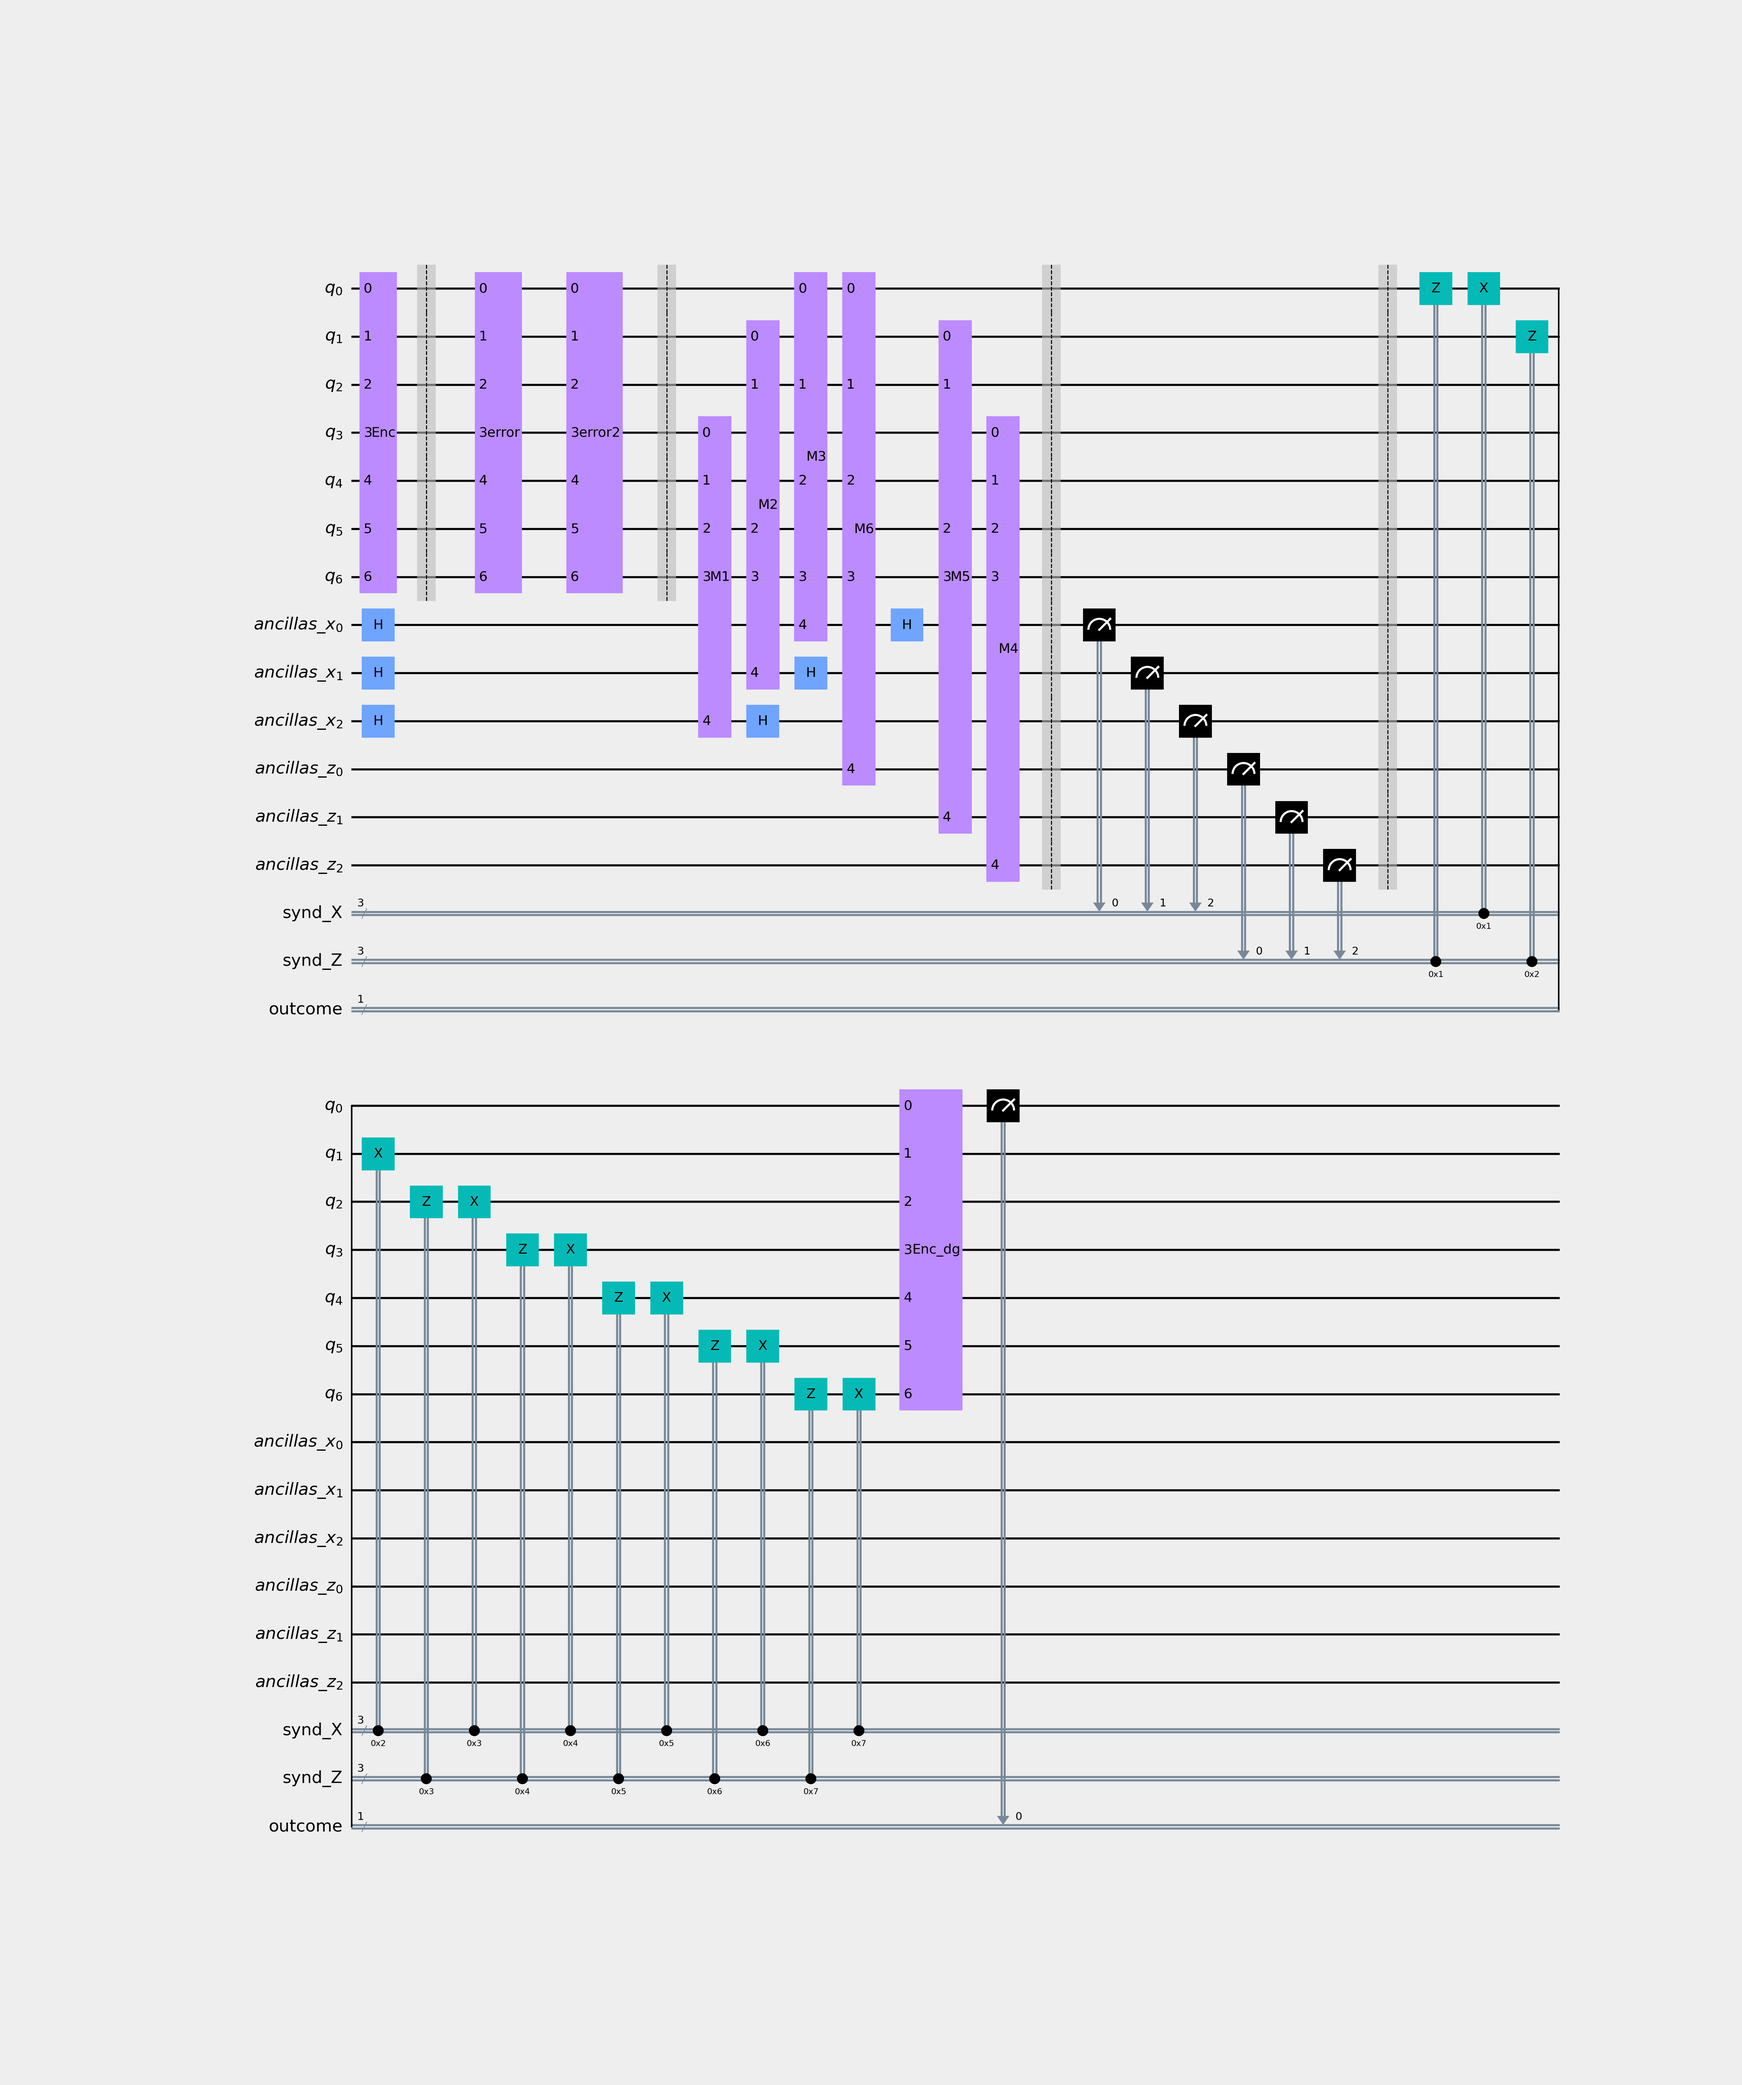
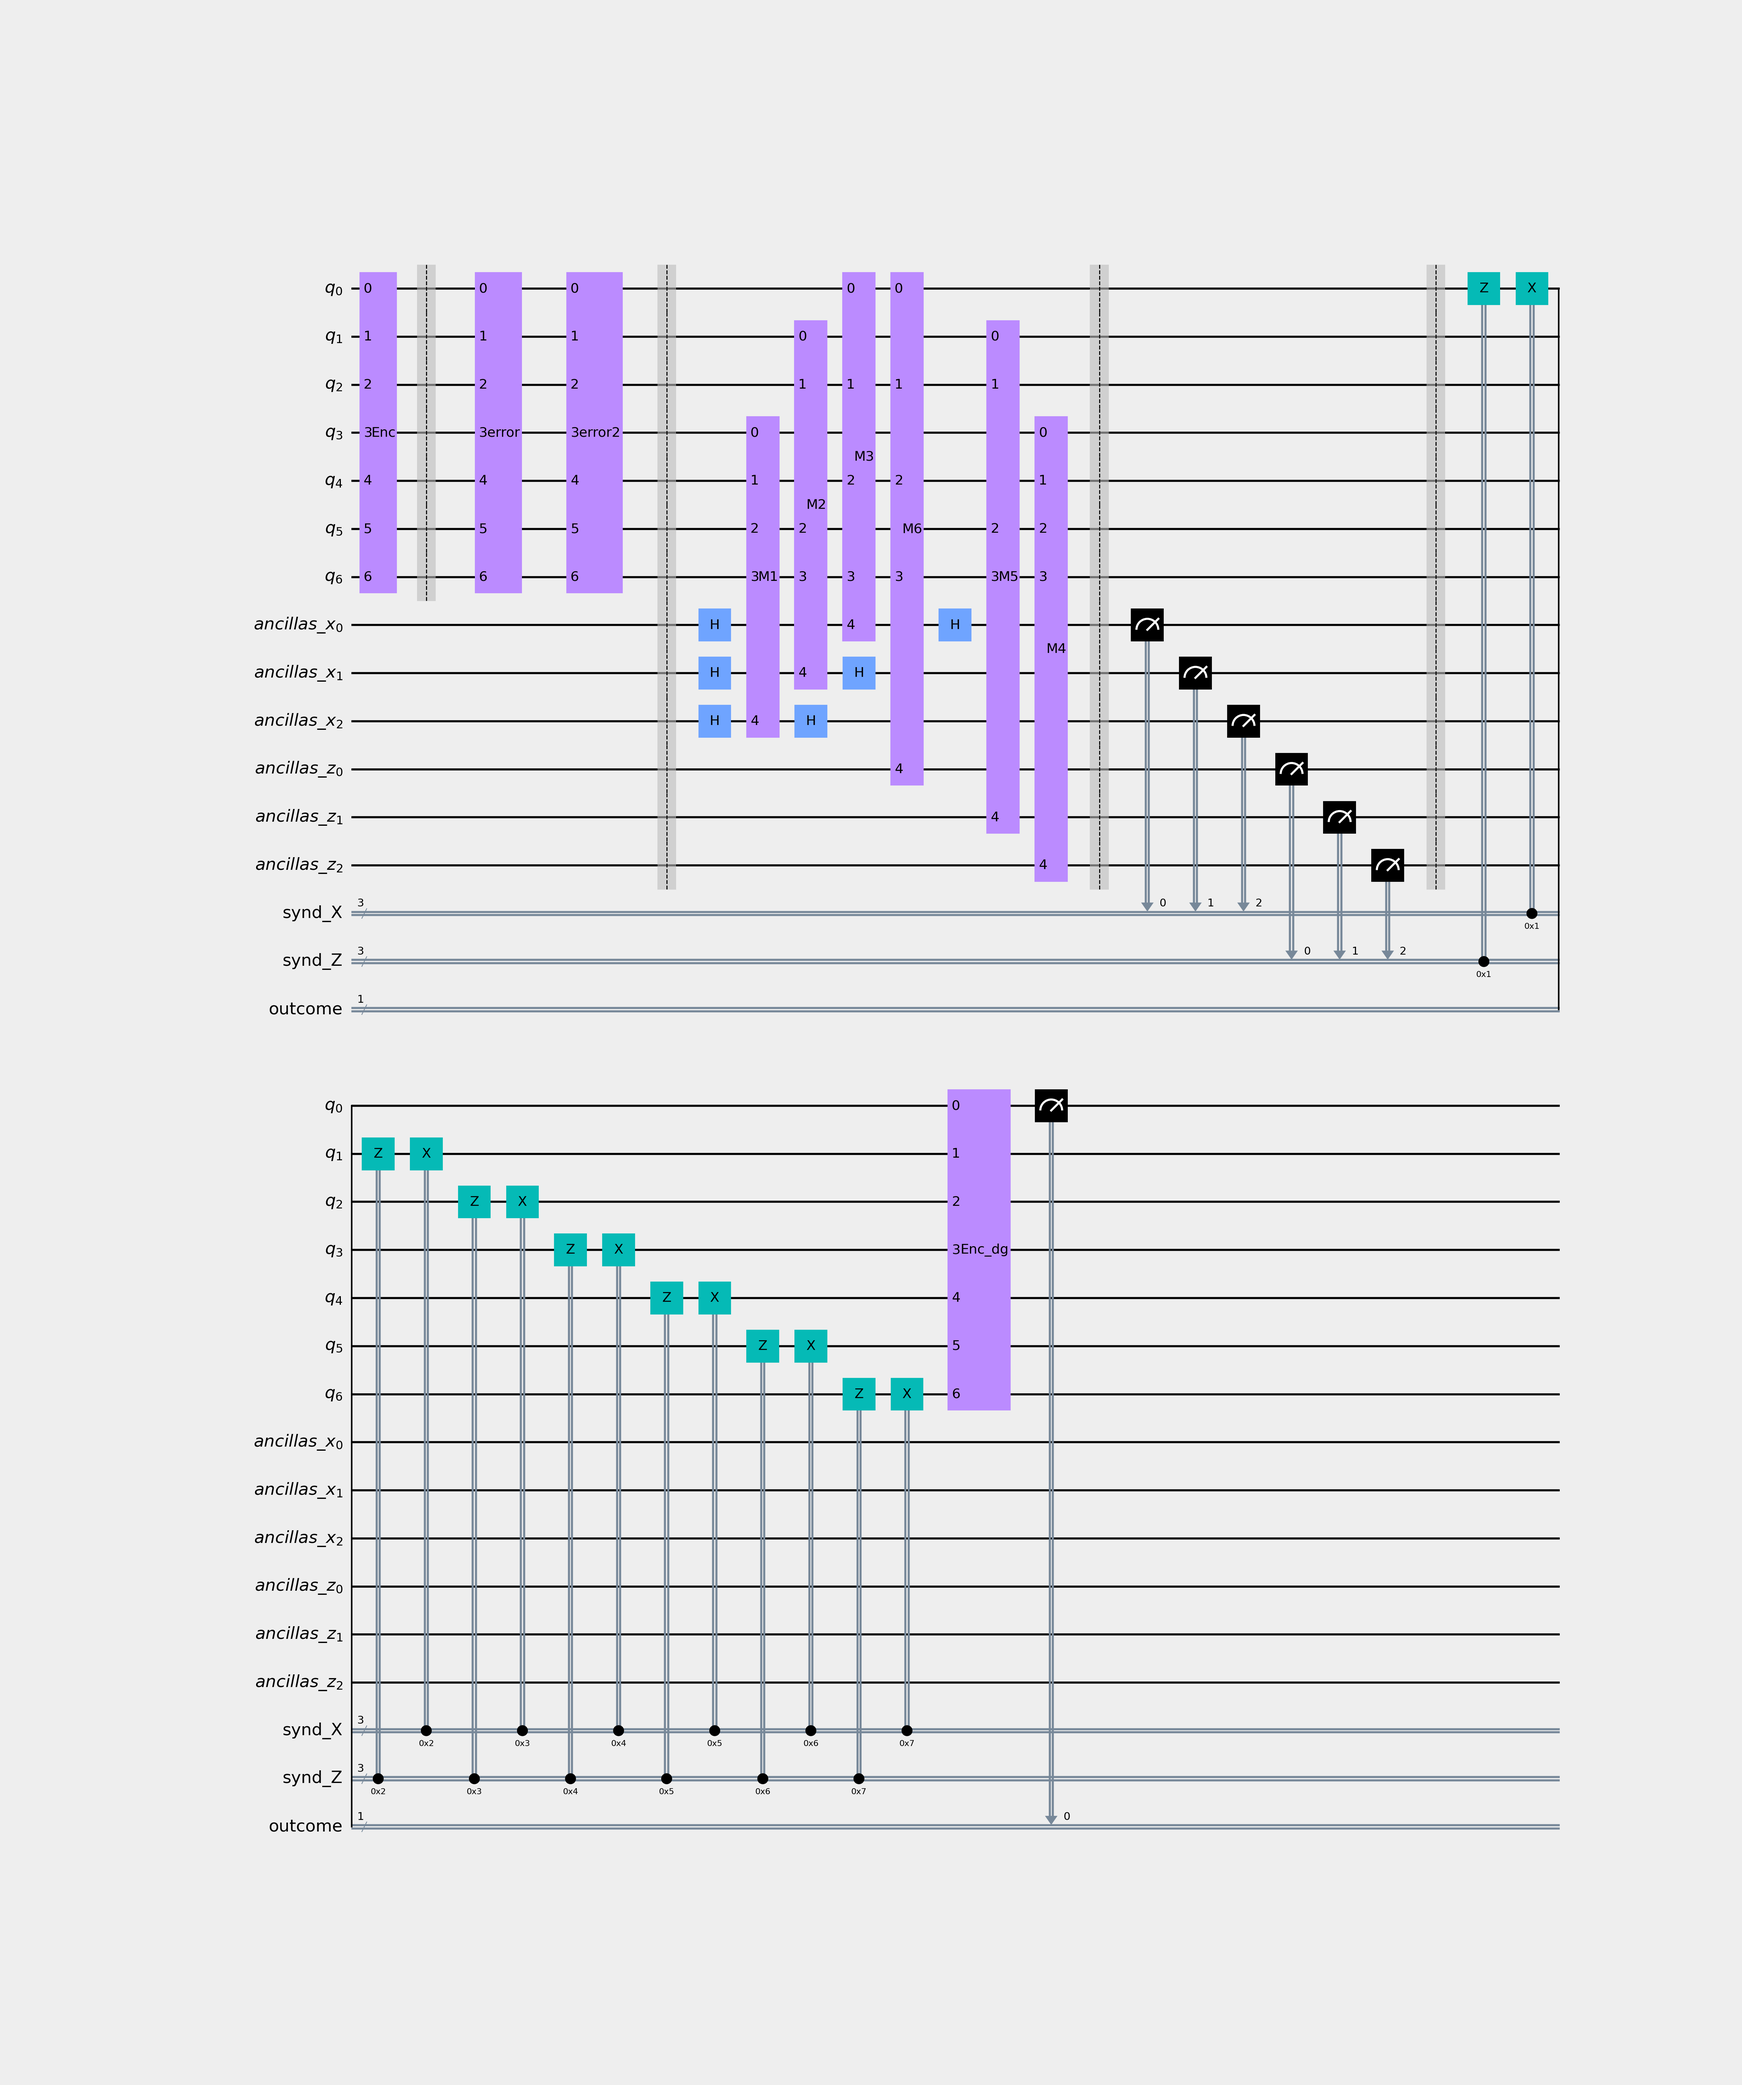
refactoring

diff --git a/Seven_qubit_code.py b/Seven_qubit_code.py
@@ -38,45 +38,64 @@ def draw_circuit(quantum_circuit):
 
 
 def generate_circuit():
-    all_qubits = [0, 1, 2, 3, 4, 5, 6]
-    quantum_error_1 = QuantumCircuit(7, name='error')
-    quantum_error_2 = QuantumCircuit(7, name='error2')
-    ident3 = qi.Operator(np.identity(2 ** 7))
-    quantum_error_1.unitary(ident3, all_qubits, label='error')
-    quantum_error_2.unitary(ident3, all_qubits, label='error2')
+    all_qubits = range(7)
     quantum_circuit = QuantumCircuit(7)
     initialize_first_qubit_to_state(quantum_circuit)
-    quantum_circuit.append(Encoding7(), all_qubits)
+    encode_to_logical_qubit(all_qubits, quantum_circuit)
     quantum_circuit.barrier()
     ####
     # Attaching unitary identity gates (faulty gates)
     ####
-    quantum_circuit.append(quantum_error_1, all_qubits)
-    quantum_circuit.append(quantum_error_2, all_qubits)
-    quantum_circuit.barrier()
-    ancillas_x = QuantumRegister(3, 'ancillas_x')
-    ancillas_z = QuantumRegister(3, 'ancillas_z')
-    quantum_circuit.add_register(ancillas_x)
-    quantum_circuit.add_register(ancillas_z)
-    classical_register_x = ClassicalRegister(3, 'synd_X')
-    classical_register_z = ClassicalRegister(3, 'synd_Z')
-    quantum_circuit.add_register(classical_register_x)
-    quantum_circuit.add_register(classical_register_z)
+
+    ancillas_x, ancillas_z, classical_register_x, classical_register_z, original_qubit_final_outcome = add_ancillas_and_classical_registers(
+        quantum_circuit)
+
+    perform_some_computations(all_qubits, quantum_circuit)
+
     for i in range(7, 10):
         quantum_circuit.h(i)
     append_stabilizers(quantum_circuit)
     for i in range(7, 10):
         quantum_circuit.h(i)
+
     quantum_circuit.barrier()
     measure_ancillas(ancillas_x, ancillas_z, classical_register_x, classical_register_z, quantum_circuit)
     # Correction
     quantum_circuit.barrier()
     correct_errors(classical_register_x, classical_register_z, quantum_circuit)
     decode_logical_qubit(all_qubits, quantum_circuit)
-    original_qubit_outcome = ClassicalRegister(1, 'outcome')
-    quantum_circuit.add_register(original_qubit_outcome)
-    quantum_circuit.measure(all_qubits[0], original_qubit_outcome)
+
+    quantum_circuit.measure(all_qubits[0], original_qubit_final_outcome)
     return quantum_circuit
+
+
+def perform_some_computations(all_qubits, quantum_circuit):
+    quantum_error_1 = QuantumCircuit(7, name='error')
+    quantum_error_2 = QuantumCircuit(7, name='error2')
+    ident3 = qi.Operator(np.identity(2 ** 7))
+    quantum_error_1.unitary(ident3, all_qubits, label='error')
+    quantum_error_2.unitary(ident3, all_qubits, label='error2')
+    quantum_circuit.append(quantum_error_1, all_qubits)
+    quantum_circuit.append(quantum_error_2, all_qubits)
+    quantum_circuit.barrier()
+
+
+def add_ancillas_and_classical_registers(quantum_circuit):
+    ancillas_x = QuantumRegister(3, 'ancillas_x')
+    ancillas_z = QuantumRegister(3, 'ancillas_z')
+    quantum_circuit.add_register(ancillas_x)
+    quantum_circuit.add_register(ancillas_z)
+    classical_register_x = ClassicalRegister(3, 'synd_X')
+    classical_register_z = ClassicalRegister(3, 'synd_Z')
+    original_qubit_final_outcome = ClassicalRegister(1, 'outcome')
+    quantum_circuit.add_register(classical_register_x)
+    quantum_circuit.add_register(classical_register_z)
+    quantum_circuit.add_register(original_qubit_final_outcome)
+    return ancillas_x, ancillas_z, classical_register_x, classical_register_z, original_qubit_final_outcome
+
+
+def encode_to_logical_qubit(all_qubits, quantum_circuit):
+    quantum_circuit.append(Encoding7(), all_qubits)
 
 
 def decode_logical_qubit(all_qubits, quantum_circuit):
